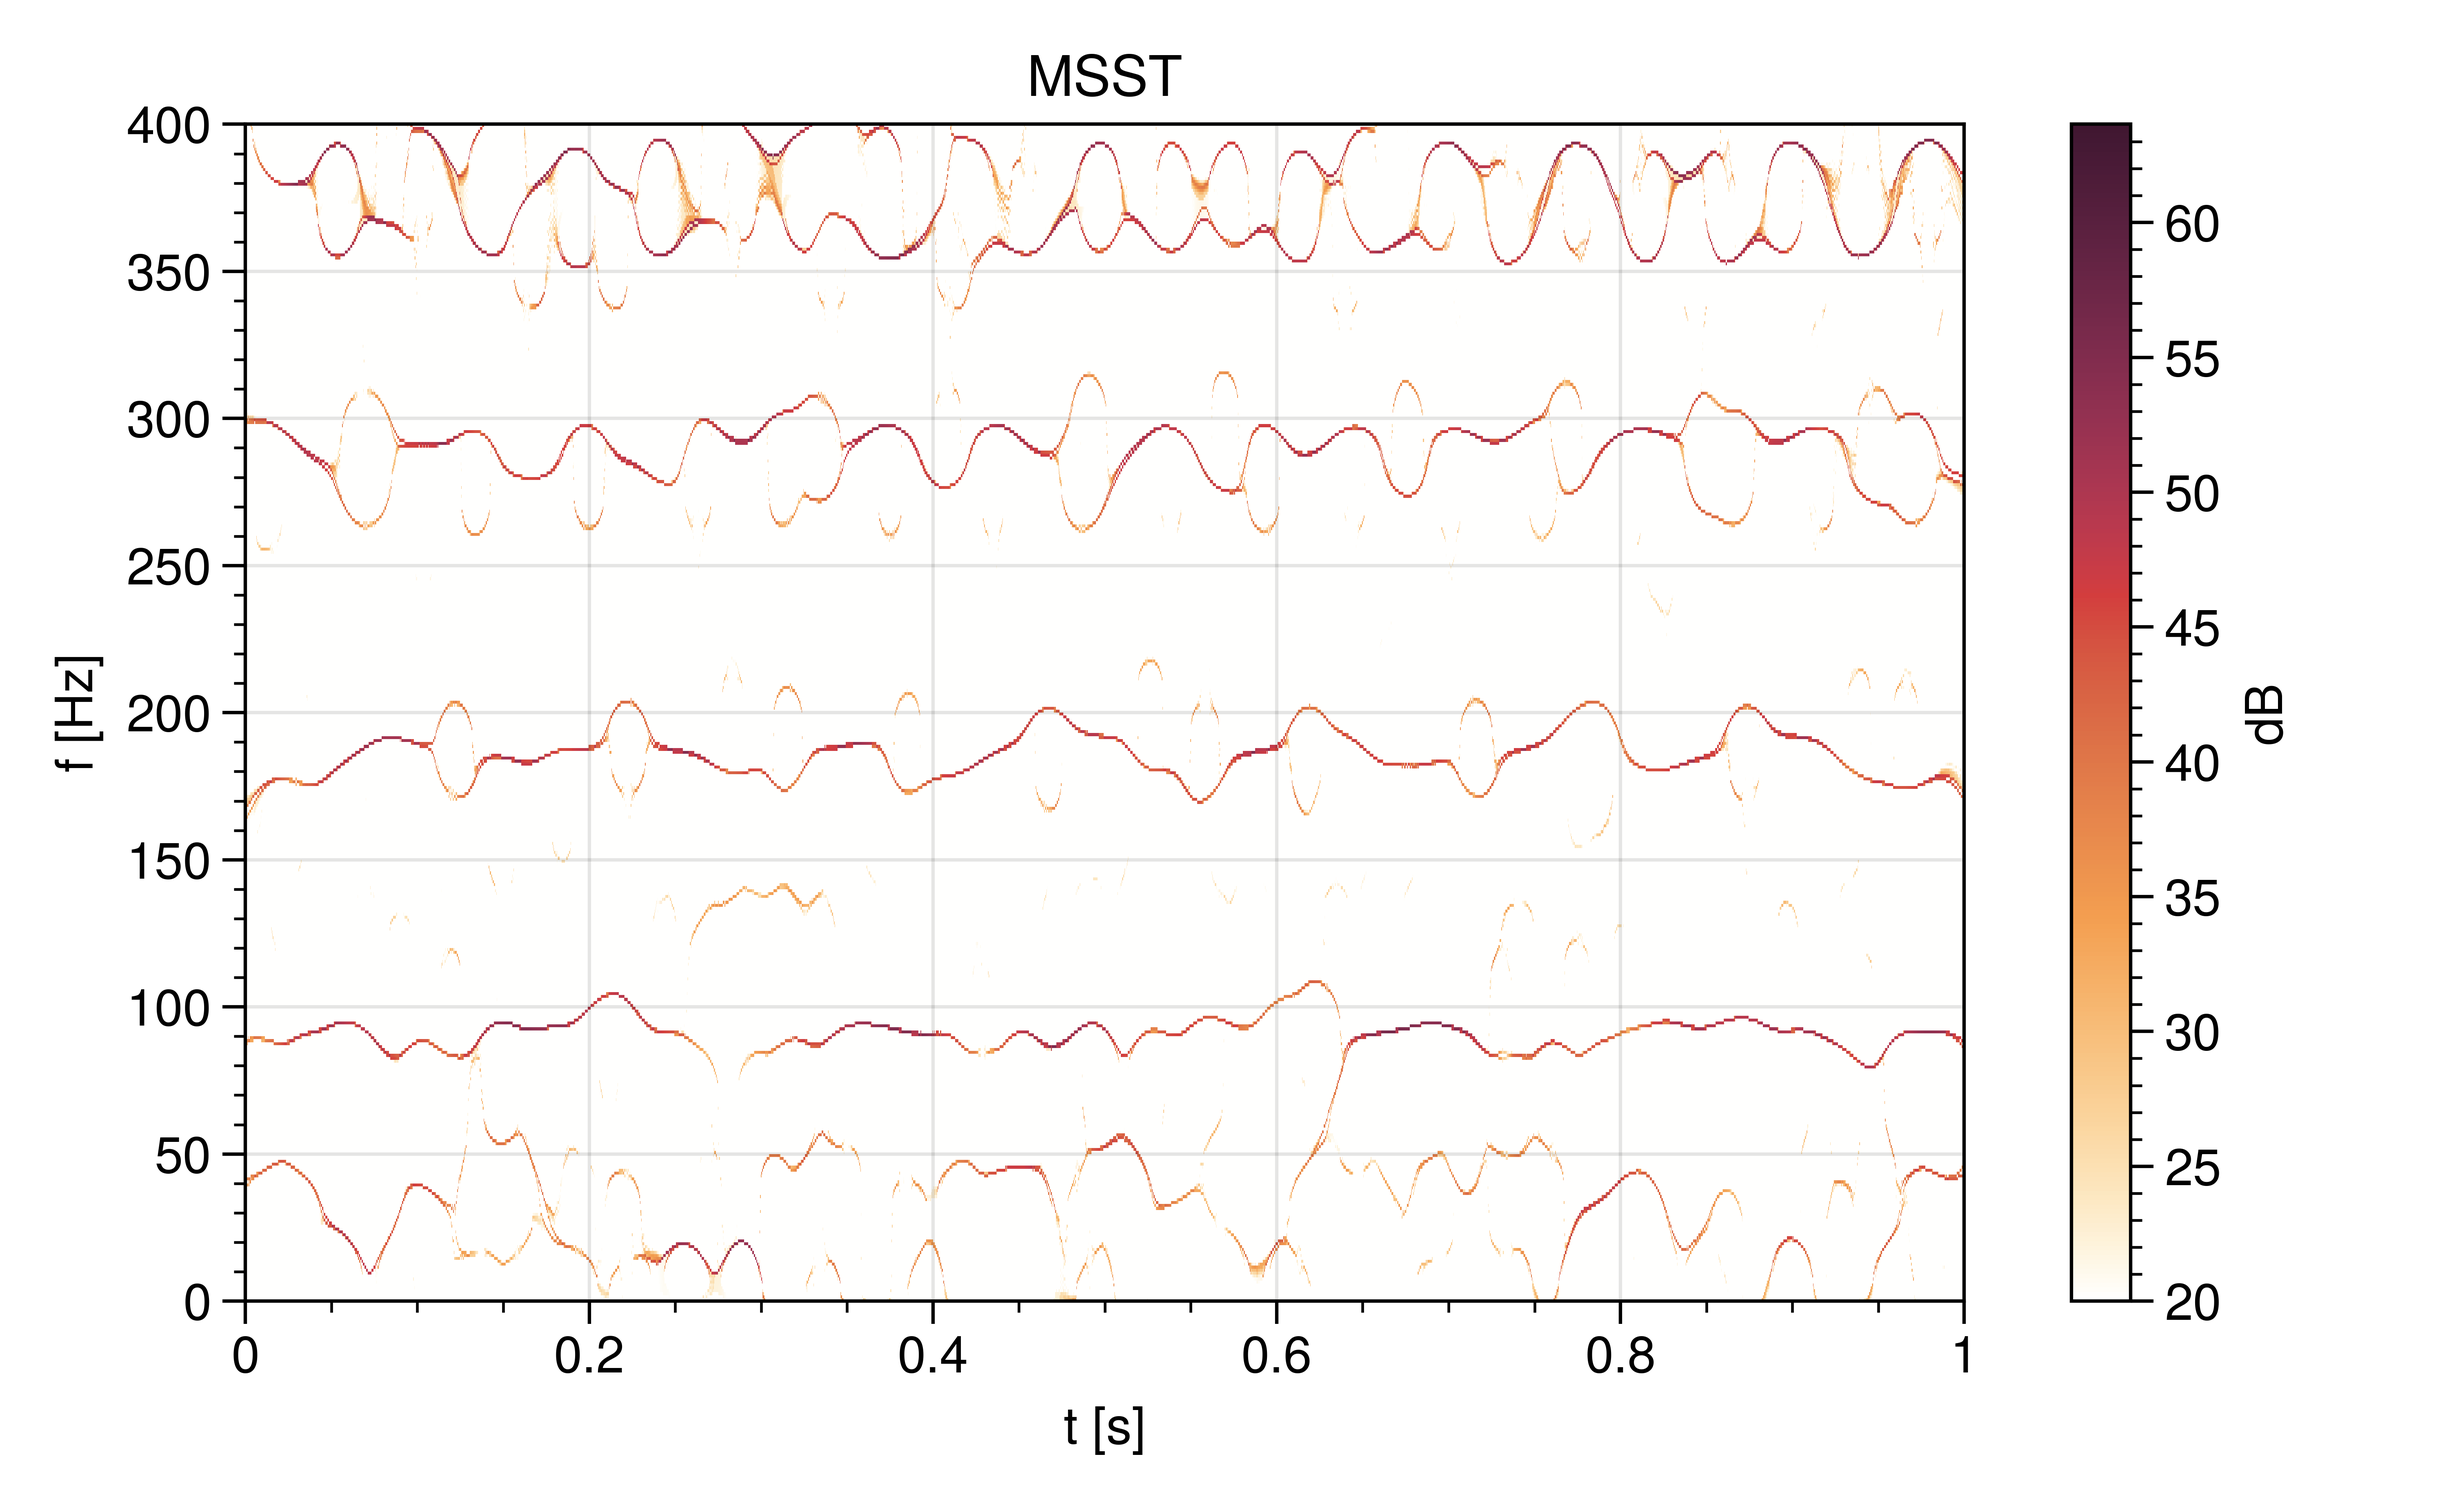
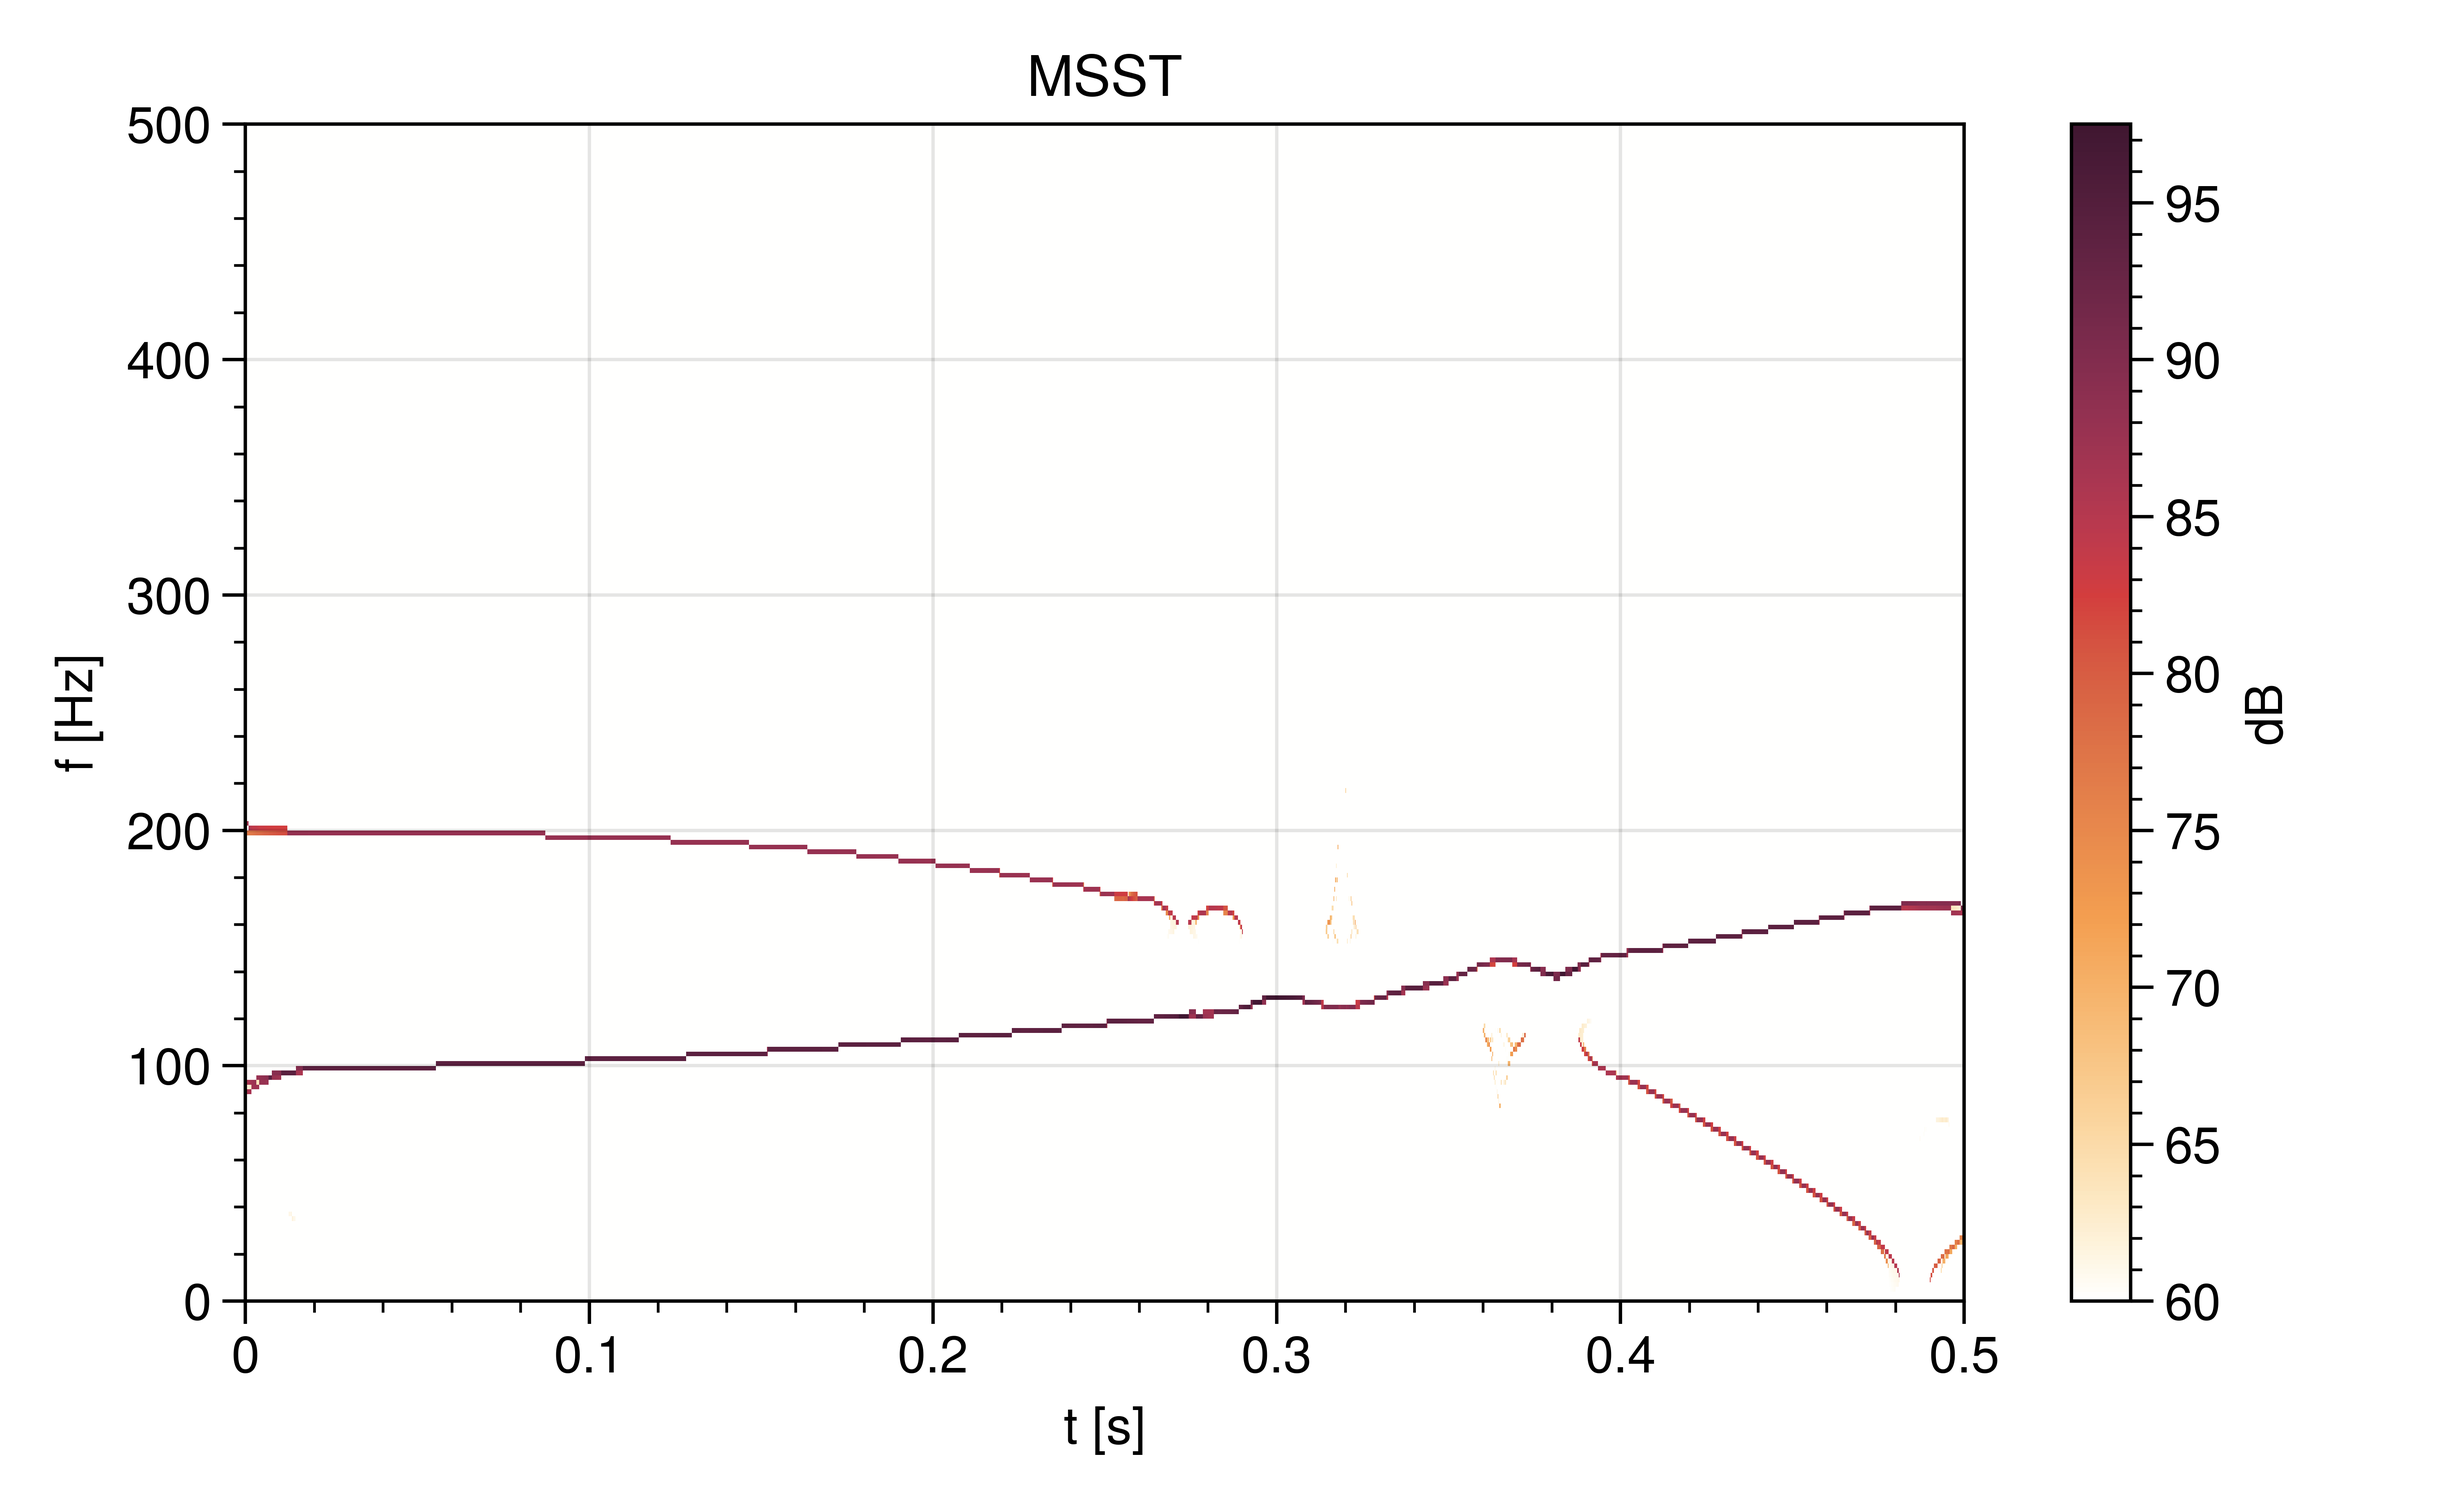
updates

diff --git a/README.md b/README.md
@@ -9,6 +9,8 @@
 <img src="doc/img/spectrogram.png" width=500></img>
 
 ### Multisynchrosqueezing Transform
+<img src="doc/img/hist_msst.png" width=500></img>
+<img src="doc/img/spectro_msst.png" width=500></img>
 <img src="doc/img/msst.png" width=500></img>
 
 ## Installation
